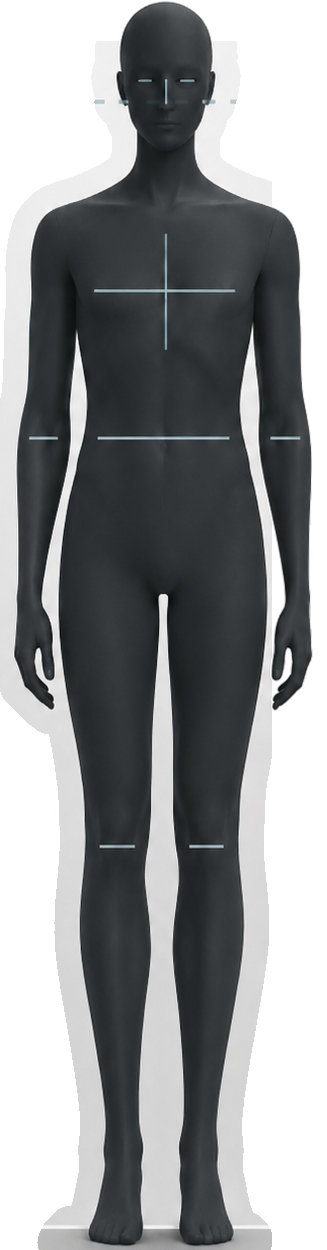
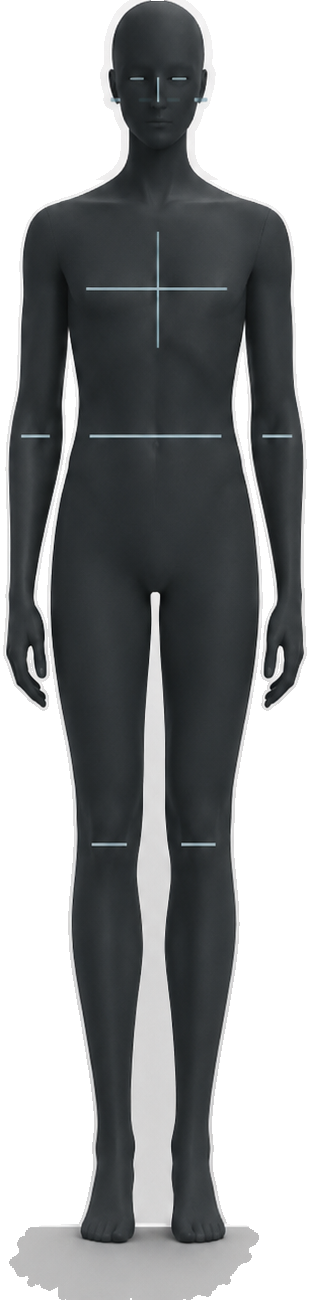
Add files via upload

diff --git a/index.html b/index.html
@@ -9,7 +9,7 @@
   <meta name="apple-mobile-web-app-title" content="FRAME - BOS" />
   <link rel="manifest" href="manifest.webmanifest" />
   <link rel="apple-touch-icon" href="icons/icon-180.png" />
-  <link rel="stylesheet" href="styles.css?v=3.20" />
+  <link rel="stylesheet" href="styles.css?v=3.21" />
   <title>BRUNO ONSET / FRAME</title>
 </head>
 <body>
@@ -244,7 +244,7 @@
           <img class="footer-logo" src="logo-bruno-guillard.png" alt="" />
           <span>BOS · Bruno OnSet · Bruno Guillard</span>
         </a>
-        <span class="app-version">v3.20</span>
+        <span class="app-version">v3.21</span>
       </div>
     </footer>
   </main>
@@ -453,6 +453,6 @@
     </form>
   </dialog>
 
-  <script src="app.js?v=3.20"></script>
+  <script src="app.js?v=3.21"></script>
 </body>
 </html>

diff --git a/app.js b/app.js
@@ -72,15 +72,15 @@ const ratios = [
 ];
 
 const previewFigureMetrics = {
-  // Exact pixel coordinates of assets/mannequin-preview.png (327 × 1250).
-  viewWidth:327,
-  viewHeight:1250,
-  headTopY:2.0,
-  eyeY:76.5,
-  chestY:286.5,
-  waistY:443.5,
-  kneeY:842.0,
-  footY:1240.0
+  // Exact pixel coordinates of assets/mannequin-preview.png (310 × 1300).
+  viewWidth:310,
+  viewHeight:1300,
+  headTopY:2.08,
+  eyeY:79.56,
+  chestY:297.96,
+  waistY:461.24,
+  kneeY:875.68,
+  footY:1289.6
 };
 previewFigureMetrics.headTopRatio = previewFigureMetrics.headTopY / previewFigureMetrics.viewHeight;
 previewFigureMetrics.eyeRatio = previewFigureMetrics.eyeY / previewFigureMetrics.viewHeight;

diff --git a/sw.js b/sw.js
@@ -1,4 +1,4 @@
-const CACHE='frame-bos-v3-20-halo-fix';
+const CACHE='frame-bos-v3-21-clean-asset';
 const ASSETS=['./','./index.html','./styles.css','./app.js','./manifest.webmanifest','./icons/icon-192.png','./icons/icon-512.png','./icons/icon-180.png','./logo-bruno-guillard.png'];
 
 self.addEventListener('install',e=>{

diff --git a/README.md b/README.md
@@ -1,10 +1,8 @@
-# BOS FRAME V3.20 — HALO FIX
+# BOS FRAME V3.21 — CLEAN ASSET
 
-Base : BOS_FRAME_V3_19_WIDEFIX_ARMS
+Base: BOS_FRAME_V3_20_HALO_FIX
 
-Correction :
-- suppression du contour blanc autour des mannequins
-- décontamination du PNG transparent (unmatted from white)
-- conservation des corrections V3.19 :
-  - plans serrés / focales larges
-  - bras complets
+Correction:
+- remplacement complet du mannequin par un asset reconstruit depuis la référence propre de l’utilisateur
+- suppression des contours / silhouettes parasites derrière les personnages
+- conservation des corrections précédentes
